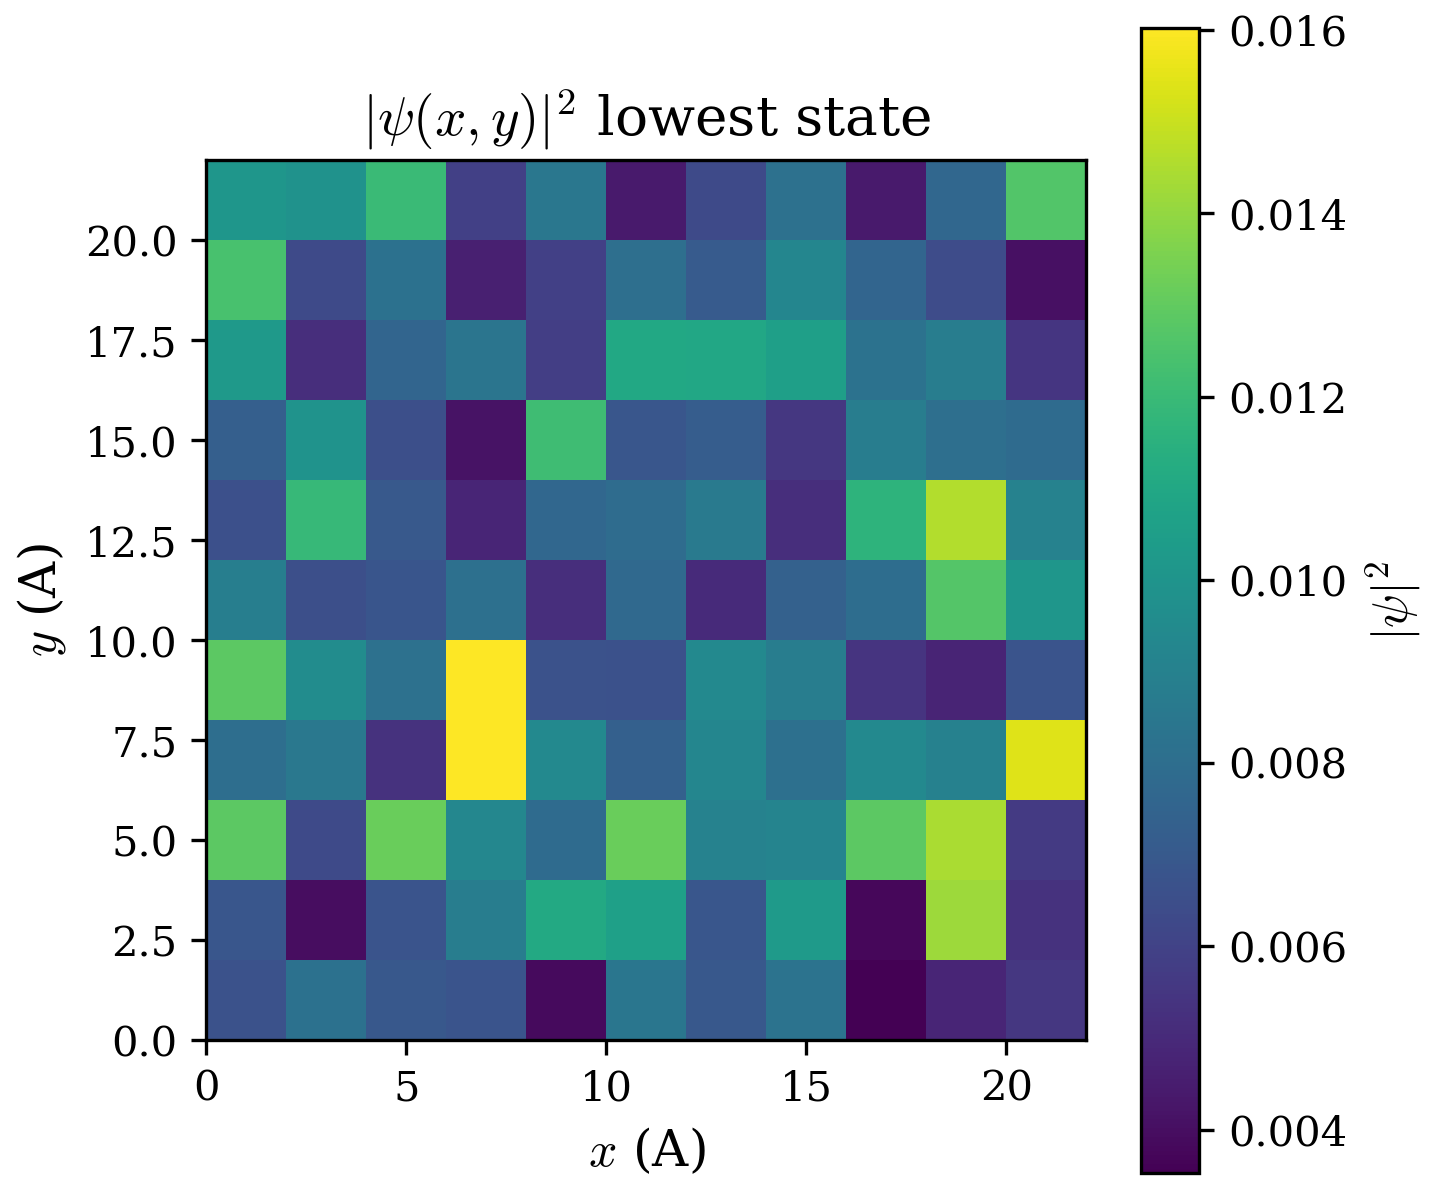
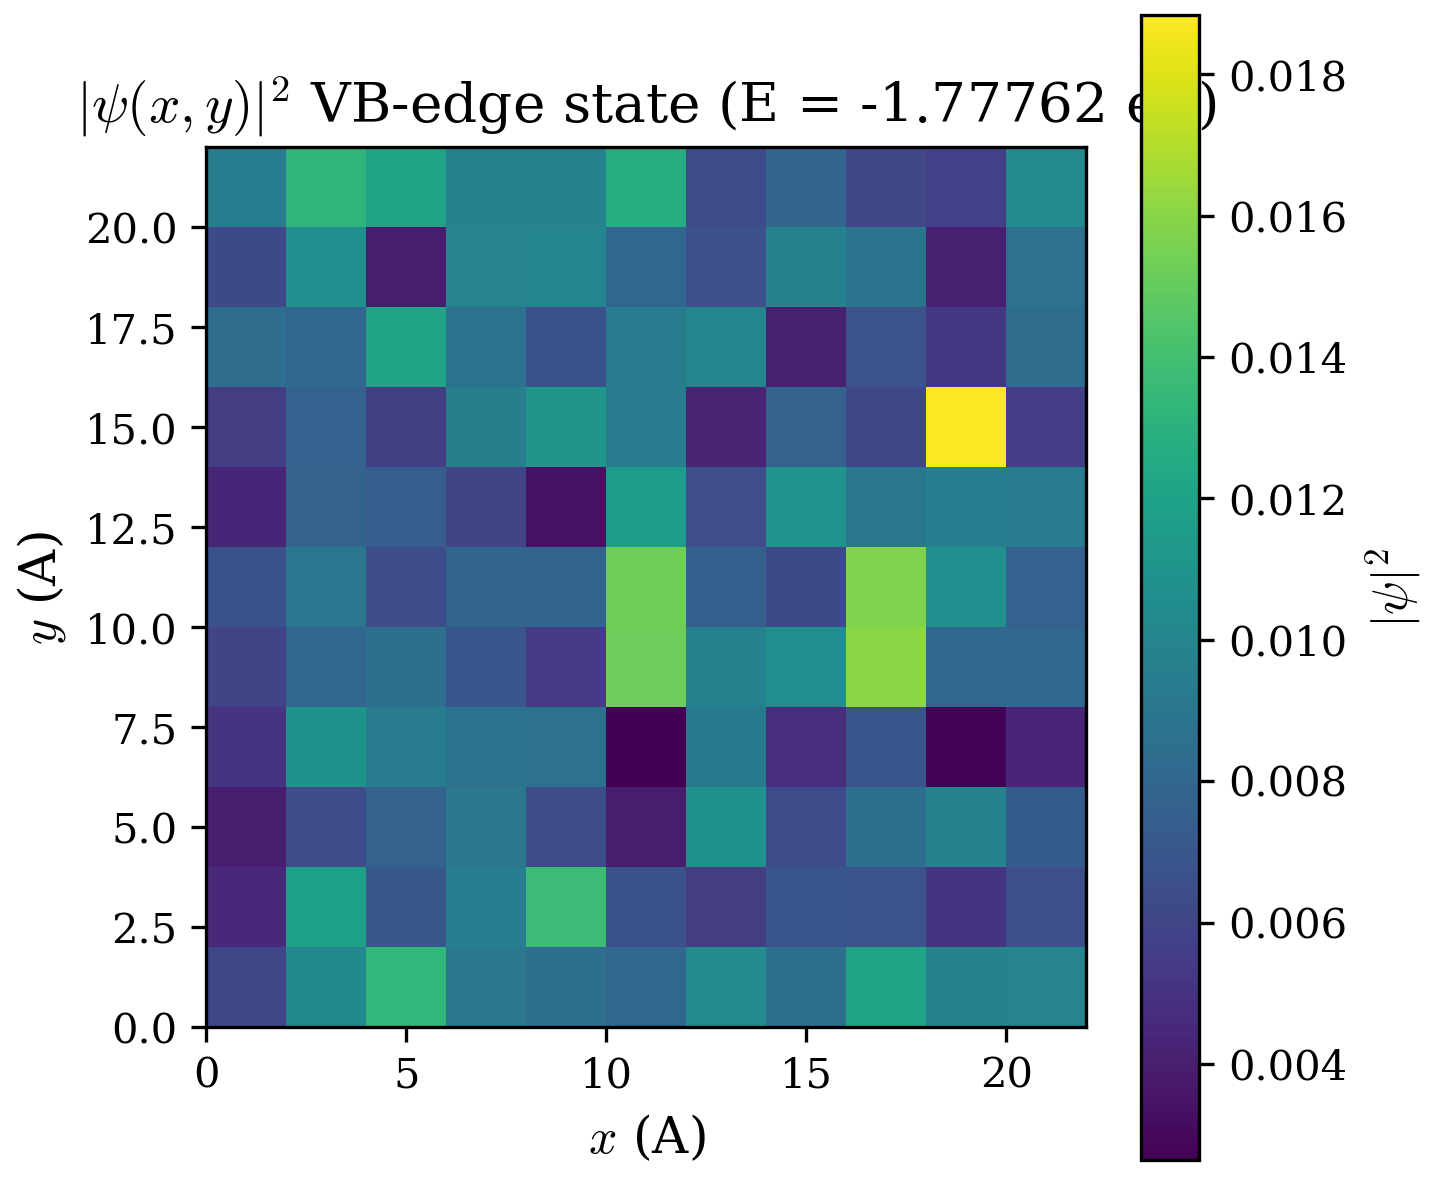
fix: correct wire subbands, density, SC potential, and convergence figures
Wire subbands: label as valence subbands, show EV reference line, use
blue gradient colormap appropriate for VB states.

Wire density 2D: select eigenfunction closest to VB edge (E≈-0.80 eV)
instead of the deepest state at -4.3 eV.

SC potential: remove stale sc_potential_profile.dat before running QW
to ensure the heterostructure step profile is displayed.

Convergence: use QW config (FD order has no effect on bulk), fix
semilogy zero-value issue, correct config field matching order.

diff --git a/scripts/plotting/generate_all_figures.py b/scripts/plotting/generate_all_figures.py
@@ -678,33 +678,26 @@ def fig_sc_potential(output_dir: Path) -> None:
     from ``potential_profile.dat`` is shown.
     """
     print("[figure] sc_potential")
+
+    # Remove any stale sc_potential_profile.dat that may have been produced
+    # by a prior wire SC run (5-column 2D format). The QW run below will
+    # produce a fresh potential_profile.dat with 4-column 1D format.
+    sc_path = output_dir / "sc_potential_profile.dat"
+    if sc_path.exists():
+        sc_path.unlink()
+        print("  Removed stale sc_potential_profile.dat")
+
     # Run QW first to get the heterostructure profile
     cfg = CONFIG_DIR / "qw_alsbw_gasbw_inasw.cfg"
     run_executable(EXE_BAND, cfg, REPO_ROOT, label="qw_potential")
 
-    # Try SC potential first (has self-consistent correction overlaid)
-    sc_path = output_dir / "sc_potential_profile.dat"
-    if sc_path.exists():
-        data = np.loadtxt(str(sc_path))
-        z, EV, EV_SO, EC = data[:, 0], data[:, 1], data[:, 2], data[:, 3]
-        # Check if SC correction is significant (more than 1 meV spread)
-        if (EV.max() - EV.min()) > 0.001:
-            title = "Self-consistent band edges (GaAs/AlAs QW, SC)"
-            subtitle_note = "SC"
-        else:
-            # SC correction negligible — use the heterostructure profile instead
-            try:
-                z, EV, EV_SO, EC = parse_potential_profile(output_dir)
-                title = "Band-edge profile (AlSbW/GaSbW/InAsW QW)"
-            except FileNotFoundError:
-                title = "Band-edge profile (SC correction < 1 meV)"
-    else:
-        try:
-            z, EV, EV_SO, EC = parse_potential_profile(output_dir)
-            title = "Band-edge profile (AlSbW/GaSbW/InAsW QW)"
-        except FileNotFoundError:
-            print("  WARNING: no potential profile data, skipping.")
-            return
+    # potential_profile.dat should now be 4-column 1D (QW format)
+    try:
+        z, EV, EV_SO, EC = parse_potential_profile(output_dir)
+        title = "Band-edge profile (AlSbW/GaSbW/InAsW QW)"
+    except (FileNotFoundError, ValueError) as exc:
+        print(f"  WARNING: could not parse potential profile ({exc}), skipping.")
+        return
 
     fig, ax = plt.subplots(figsize=(6, 4))
     ax.plot(z, EV, color="#d62728", linewidth=1.5, label="$E_V$")
@@ -772,7 +765,7 @@ def fig_sc_convergence(output_dir: Path) -> None:
 
 
 def fig_wire_subbands(output_dir: Path) -> None:
-    """wire_subbands.png: E(k_z) wire subbands."""
+    """wire_subbands.png: valence subbands E(k_z) for GaAs rectangular wire."""
     print("[figure] wire_subbands")
     cfg = CONFIG_DIR / "wire_gaas_rectangle.cfg"
     run_executable(EXE_BAND, cfg, REPO_ROOT, label="wire_gaas", timeout=300)
@@ -782,42 +775,87 @@ def fig_wire_subbands(output_dir: Path) -> None:
         print("  WARNING: eigenvalues.dat not found for wire, skipping.")
         return
 
+    # GaAs valence band edge (all eigenvalues are deep VB states)
+    EV_GAAS = -0.80
+
     fig, ax = plt.subplots(figsize=(5, 4.5))
     n_bands = eig.shape[0]
+    vb_colors = plt.cm.Blues_r(np.linspace(0.3, 0.9, n_bands))
     for i in range(n_bands):
-        e_mean = np.mean(eig[i])
-        color = "#17becf" if e_mean > 0 else "#d62728"
-        ax.plot(k_vals, eig[i], color=color, linewidth=0.9)
+        ax.plot(k_vals, eig[i], color=vb_colors[i], linewidth=0.9)
+    ax.axhline(EV_GAAS, color="grey", linewidth=0.8, linestyle="--",
+               label=f"$E_V$ = {EV_GAAS:.2f} eV")
     ax.set_xlabel(r"$k_z$ (1/A)")
     ax.set_ylabel(r"$E$ (eV)")
-    ax.set_title("GaAs rectangular wire subbands")
-    ax.axhline(0, color="grey", linewidth=0.4, linestyle="--")
+    ax.set_title("GaAs rectangular wire valence subbands")
+    ax.legend(loc="best", fontsize=8)
     fig.tight_layout()
     fig.savefig(FIGURE_DIR / "wire_subbands.png")
     plt.close(fig)
     print("  -> docs/figures/wire_subbands.png")
 
 
-def fig_wire_density_2d(output_dir: Path) -> None:
-    """wire_density_2d.png: 2D |psi(x,y)|^2 colormap for wire."""
-    print("[figure] wire_density_2d")
-    # Uses output from wire run (re-run if needed)
+def _find_ev_idx_nearest_to_energy(output_dir: Path, target_eV: float) -> int:
+    """Return the eigenfunction index (1-based) whose eigenvalue at k=1 is
+    closest to *target_eV* by reading the comment header of each file."""
+    for ev_idx in range(1, 100):
+        fname = output_dir / f"eigenfunctions_k_00001_ev_{ev_idx:05d}.dat"
+        if not fname.exists():
+            break
+    n_ev = ev_idx - 1  # last existing index
+    if n_ev == 0:
+        return 1
+    # Read eigenvalues from eigenvalues.dat row 1 (k=1)
     try:
-        x, y, psi2 = parse_wire_eigenfunction_2d(output_dir, k_idx=1, ev_idx=1)
+        _, eig = parse_eigenvalues(output_dir)
+        e_at_k1 = eig[:, 0]  # first k-point
+    except (FileNotFoundError, IndexError):
+        return n_ev  # fall back to highest VB state
+    best_idx = int(np.argmin(np.abs(e_at_k1 - target_eV))) + 1  # 1-based
+    return best_idx
+
+
+def fig_wire_density_2d(output_dir: Path) -> None:
+    """wire_density_2d.png: 2D |psi(x,y)|^2 for the VB-edge state."""
+    print("[figure] wire_density_2d")
+
+    # GaAs valence band edge
+    EV_GAAS = -0.80
+
+    # Find eigenfunction closest to VB edge (not the deepest state)
+    ev_idx = _find_ev_idx_nearest_to_energy(output_dir, EV_GAAS)
+    print(f"  Using eigenfunction ev_idx={ev_idx} (closest to EV={EV_GAAS} eV)")
+
+    try:
+        x, y, psi2 = parse_wire_eigenfunction_2d(output_dir, k_idx=1, ev_idx=ev_idx)
     except FileNotFoundError:
         cfg = CONFIG_DIR / "wire_gaas_rectangle.cfg"
         run_executable(EXE_BAND, cfg, REPO_ROOT, label="wire_gaas", timeout=300)
-        x, y, psi2 = parse_wire_eigenfunction_2d(output_dir, k_idx=1, ev_idx=1)
+        ev_idx = _find_ev_idx_nearest_to_energy(output_dir, EV_GAAS)
+        x, y, psi2 = parse_wire_eigenfunction_2d(output_dir, k_idx=1, ev_idx=ev_idx)
 
     if x.size == 0:
         print("  WARNING: no wire eigenfunction data, skipping.")
         return
 
+    # Read the energy of the chosen state for the title
+    state_energy = ""
+    ev_file = output_dir / f"eigenfunctions_k_00001_ev_{ev_idx:05d}.dat"
+    if ev_file.exists():
+        with open(ev_file) as f:
+            for line in f:
+                if line.startswith("# E ="):
+                    state_energy = line.replace("# E =", "").strip()
+                    break
+
     fig, ax = plt.subplots(figsize=(5, 4.5))
     im = ax.pcolormesh(x, y, psi2, shading="auto", cmap="viridis")
     ax.set_xlabel(r"$x$ (A)")
     ax.set_ylabel(r"$y$ (A)")
-    ax.set_title(r"$|\psi(x,y)|^2$ lowest state")
+    title = r"$|\psi(x,y)|^2$ VB-edge state"
+    if state_energy:
+        title += f" (E = {state_energy} eV)"
+    ax.set_title(title)
     ax.set_aspect("equal")
     fig.colorbar(im, ax=ax, label=r"$|\psi|^2$")
     fig.tight_layout()
